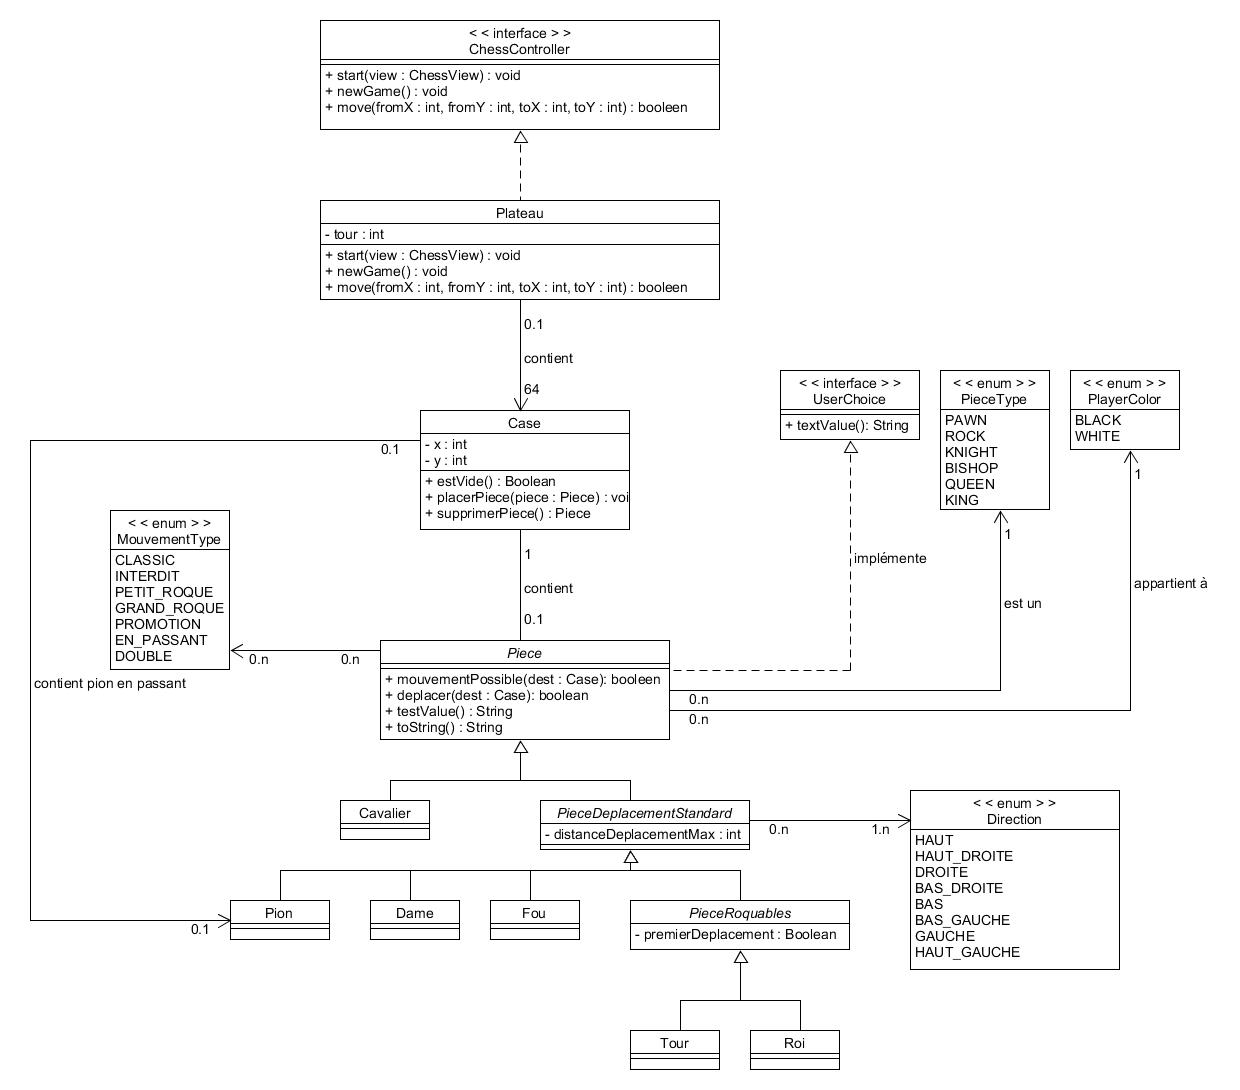
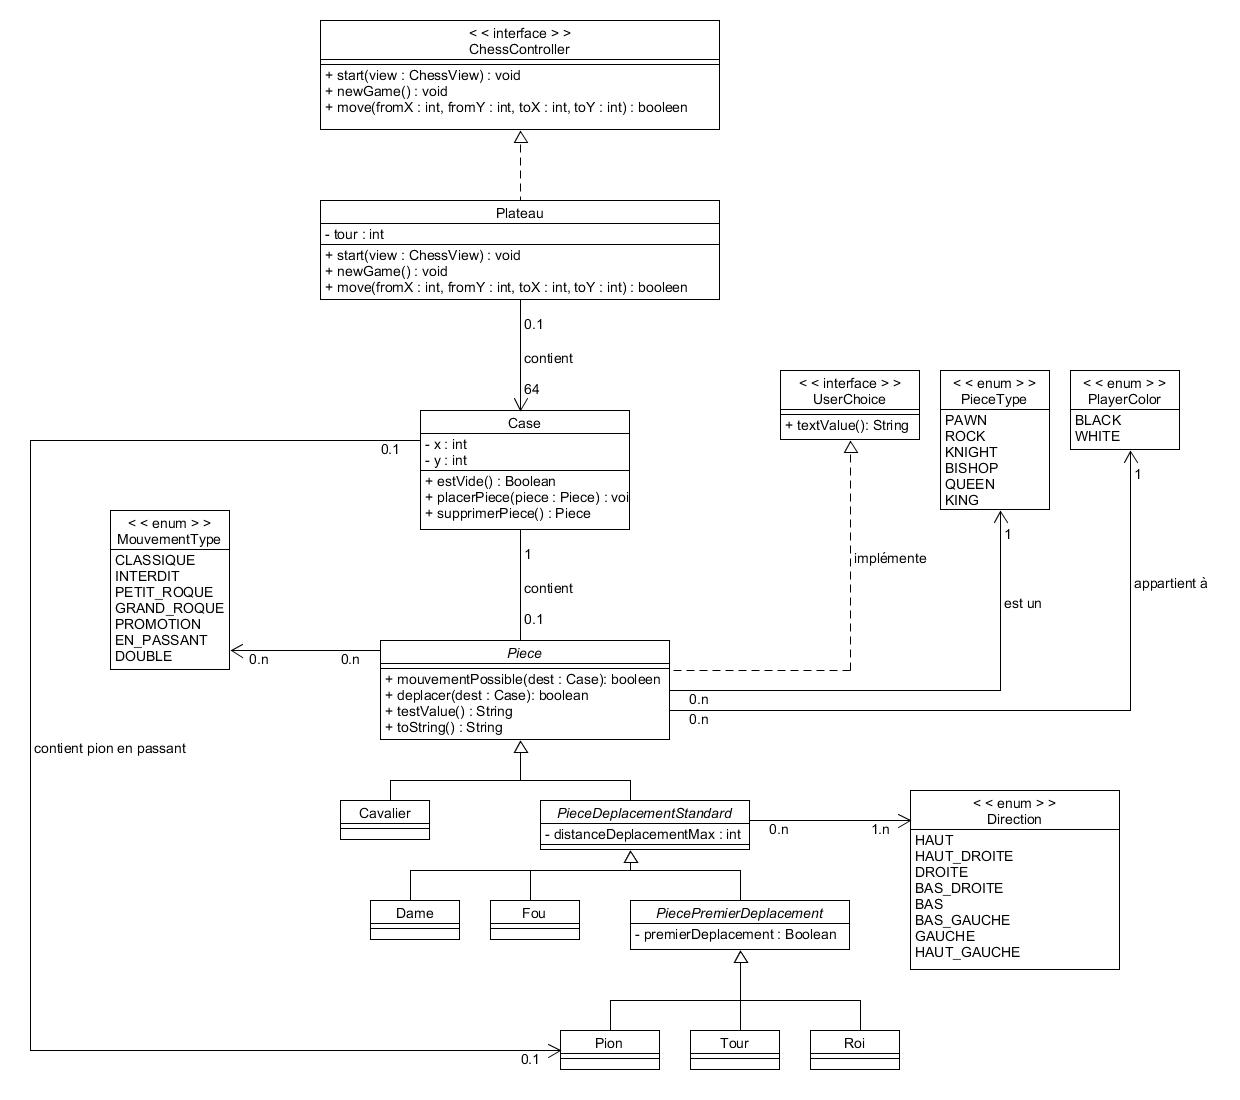
- Modification de l'UML - MAJ de la TODO list

diff --git a/src/engine/pieces/PieceDeplacementStandard.java b/src/engine/pieces/PieceDeplacementStandard.java
@@ -17,7 +17,7 @@ public abstract class PieceDeplacementStandard extends Piece{
         if (super.mouvementPossible(src, dest) == MouvementType.NON_VALIDE){
             return MouvementType.NON_VALIDE;
         }
-        return MouvementType.CLASSIC;
+        return MouvementType.CLASSIQUE;
     }
 
     public MouvementType mouvementDirectionnelPossible(Case src, Case dest){
@@ -26,12 +26,12 @@ public abstract class PieceDeplacementStandard extends Piece{
 
         if((directionType == DirectionType.DROIT || directionType == DirectionType.TOUS) && (src.getX() != dest.getX() ^ src.getY() != dest.getY())){
             if(Math.max(deltaX, deltaY) <= distanceDeplacementMax)
-                return MouvementType.CLASSIC;
+                return MouvementType.CLASSIQUE;
         }
 
         if((directionType == DirectionType.DIAGONALE || directionType == DirectionType.TOUS) && deltaX == deltaY){
             if(deltaX <= distanceDeplacementMax)
-                return MouvementType.CLASSIC;
+                return MouvementType.CLASSIQUE;
         }
 
         return MouvementType.NON_VALIDE;

diff --git a/src/engine/pieces/Pion.java b/src/engine/pieces/Pion.java
@@ -33,7 +33,7 @@ public class Pion extends PiecePremierDeplacement{
         if(src.getX() == dest.getX() && ((src.getY() + distanceDeplacementMax == dest.getY()
         || this.premierDeplacement && src.getY() + 2*distanceDeplacementMax == dest.getY()))){
             premierDeplacement = false;
-            return MouvementType.CLASSIC;
+            return MouvementType.CLASSIQUE;
         }
         if((src.getX() == dest.getX()+1 || src.getX() == dest.getX()-1)&&src.getY() + distanceDeplacementMax == dest.getY() && !dest.estVide()){
             premierDeplacement = false;

diff --git a/src/engine/pieces/Roi.java b/src/engine/pieces/Roi.java
@@ -18,9 +18,9 @@ public class Roi extends PiecePremierDeplacement {
             return MouvementType.NON_VALIDE;
         }
 
-        if (mouvementDirectionnelPossible(src, dest) == MouvementType.CLASSIC) {
+        if (mouvementDirectionnelPossible(src, dest) == MouvementType.CLASSIQUE) {
             premierDeplacement = false;
-            return MouvementType.CLASSIC;
+            return MouvementType.CLASSIQUE;
         }
         if (premierDeplacement) {
             if (color == PlayerColor.WHITE) {

diff --git a/src/engine/pieces/Piece.java b/src/engine/pieces/Piece.java
@@ -12,7 +12,7 @@ public abstract class Piece implements ChessView.UserChoice{
         if(dest.getPieceCourante() != null && dest.getPieceCourante().getColor() == this.color){
             return MouvementType.NON_VALIDE;
         }
-        return MouvementType.CLASSIC;
+        return MouvementType.CLASSIQUE;
     }
 
     public abstract boolean deplacer(Case dest);

diff --git a/src/engine/pieces/MouvementType.java b/src/engine/pieces/MouvementType.java
@@ -1,7 +1,7 @@
 package engine.pieces;
 
 public enum MouvementType {
-    CLASSIC,
+    CLASSIQUE,
     NON_VALIDE,
     PRISE, //Est-ce que c'est vraiment util ? Dans tous les cas lros d'un déplacement d'une piece si il y a une piece sr son passage elle disparait
     GRAND_ROQUE,

diff --git a/src/engine/pieces/Cavalier.java b/src/engine/pieces/Cavalier.java
@@ -21,7 +21,7 @@ public class Cavalier extends Piece{
 
         if((deltaX == 1 && deltaY == 2) || (deltaX == 2 && deltaY == 1)){
 
-            return MouvementType.CLASSIC;
+            return MouvementType.CLASSIQUE;
         }
         return MouvementType.NON_VALIDE;
     }
